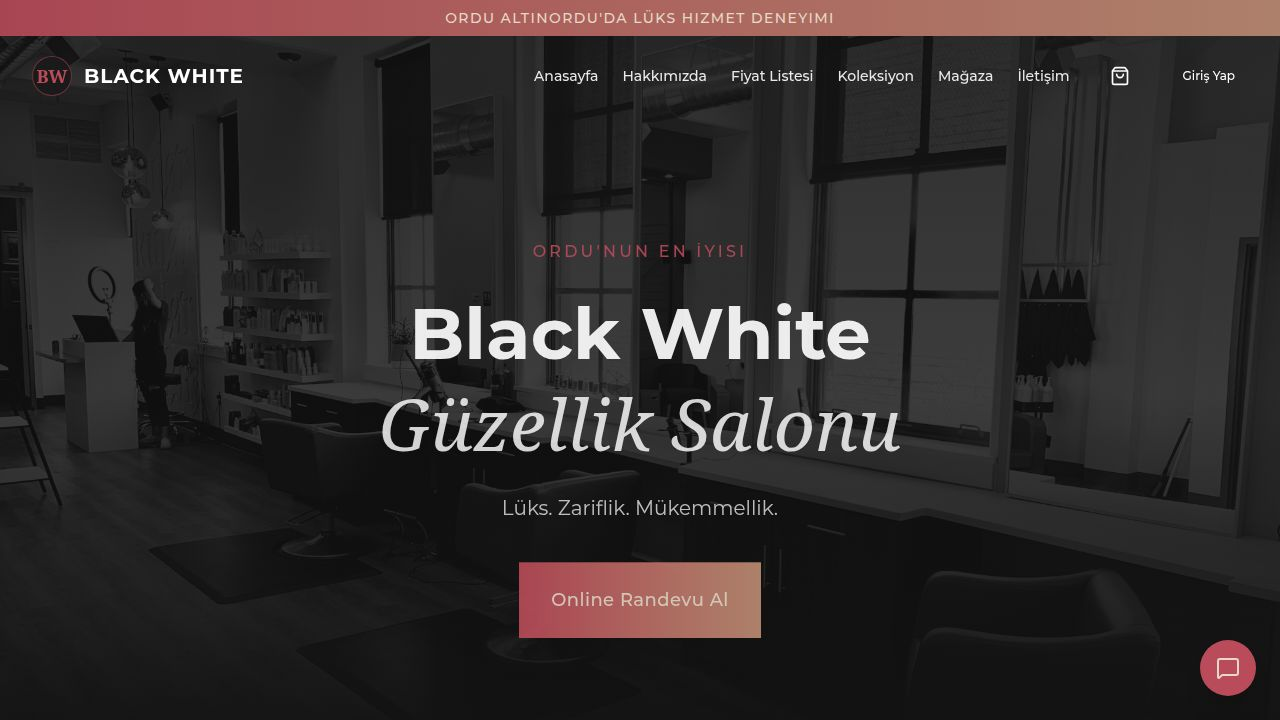
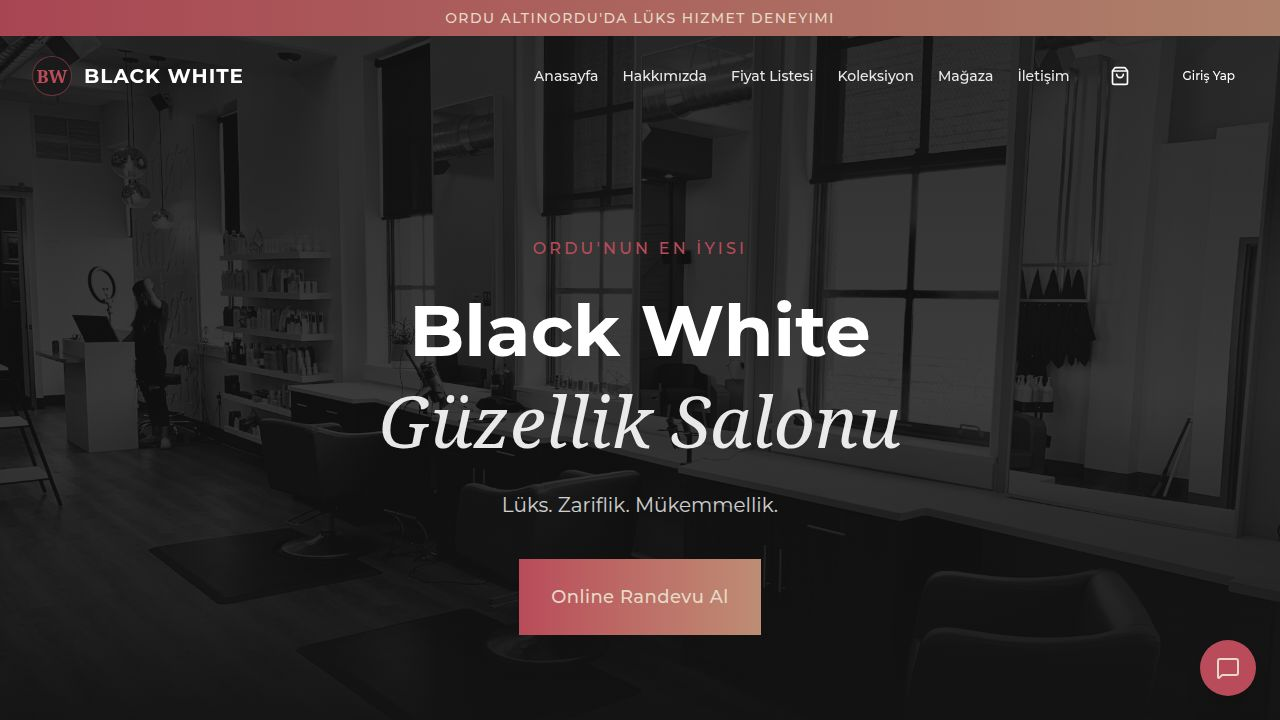
Fix crash when viewing gallery and ensure all data arrays are valid
Wrap gallery content with an ErrorBoundary component to prevent crashes and add null safety checks for gallery items, store products, and staff members in the store.

Replit-Commit-Author: Agent
Replit-Commit-Session-Id: a191b6bc-c11d-46f6-96be-dda547ddf787
Replit-Commit-Checkpoint-Type: full_checkpoint
Replit-Commit-Event-Id: 102fa211-3f3b-48c2-84a8-3e5fed6d204b
Replit-Commit-Screenshot-Url: https://storage.googleapis.com/screenshot-production-us-central1/f1316d36-864f-4967-b143-5408b5d85b4d/a191b6bc-c11d-46f6-96be-dda547ddf787/H6qPo88
Replit-Helium-Checkpoint-Created: true

diff --git a/artifacts/bw-salon/src/components/AdminContent.tsx b/artifacts/bw-salon/src/components/AdminContent.tsx
@@ -1,4 +1,5 @@
-import { useState, useRef, useEffect } from "react";
+import { useState, useRef, useEffect, Component } from "react";
+import type { ReactNode } from "react";
 import { useStore } from "@/lib/store";
 import type { StaffMember, ContactInfo, PriceList, StaffRole } from "@/lib/store";
 import { Tabs, TabsContent, TabsList, TabsTrigger } from "@/components/ui/tabs";
@@ -9,6 +10,30 @@ import { Select, SelectContent, SelectItem, SelectTrigger, SelectValue } from "@
 import { Avatar, AvatarFallback, AvatarImage } from "@/components/ui/avatar";
 import { useToast } from "@/hooks/use-toast";
 import { Plus, Trash2, Edit2, Upload, Link as LinkIcon, Star, MapPin, Phone, Instagram, MessageCircle, Clock, Facebook, KeyRound, UserPlus, ShieldCheck } from "lucide-react";
+
+class ErrorBoundary extends Component<{ children: ReactNode }, { error: string | null }> {
+  constructor(props: { children: ReactNode }) {
+    super(props);
+    this.state = { error: null };
+  }
+  static getDerivedStateFromError(err: unknown) {
+    return { error: err instanceof Error ? err.message : "Bilinmeyen hata" };
+  }
+  render() {
+    if (this.state.error) {
+      return (
+        <div className="p-6 rounded-xl border border-destructive bg-destructive/10 text-destructive text-sm space-y-2">
+          <p className="font-semibold">Bir hata oluştu, sayfa yenileyin</p>
+          <p className="text-xs opacity-75">{this.state.error}</p>
+          <button className="text-xs underline" onClick={() => this.setState({ error: null })}>
+            Tekrar dene
+          </button>
+        </div>
+      );
+    }
+    return this.props.children;
+  }
+}
 
 function useImageInput(onResult: (dataUrl: string) => void) {
   const ref = useRef<HTMLInputElement>(null);
@@ -356,6 +381,7 @@ export function AdminContent() {
 
       {/* ── GALERİ ── */}
       <TabsContent value="gallery" className="space-y-6">
+      <ErrorBoundary>
         <div className="p-5 border border-border rounded-xl bg-background space-y-4">
           <h4 className="font-medium text-sm">Fotoğraf Ekle</h4>
           <div className="flex gap-3 items-start flex-wrap">
@@ -414,9 +440,9 @@ export function AdminContent() {
         </div>
 
         <div className="grid grid-cols-3 md:grid-cols-5 lg:grid-cols-6 gap-4">
-          {siteContent.galleryItems.filter(i => galleryFilter === "all" || i.category === galleryFilter).map(img => (
-            <div key={img.id} className="relative aspect-square rounded-md overflow-hidden group">
-              <img src={img.url} alt={img.label} className="w-full h-full object-cover" />
+          {(siteContent.galleryItems ?? []).filter(i => galleryFilter === "all" || i.category === galleryFilter).map(img => (
+            <div key={img.id ?? img.url} className="relative aspect-square rounded-md overflow-hidden group">
+              <img src={img.url} alt={img.label ?? ""} className="w-full h-full object-cover" loading="lazy" />
               <button
                 className="absolute top-2 right-2 w-8 h-8 bg-black/50 hover:bg-destructive text-white rounded-full flex items-center justify-center opacity-0 group-hover:opacity-100 transition-opacity"
                 onClick={() => deleteGalleryItem(img.id)}
@@ -425,7 +451,11 @@ export function AdminContent() {
               </button>
             </div>
           ))}
+          {(siteContent.galleryItems ?? []).length === 0 && (
+            <p className="col-span-full text-xs text-muted-foreground text-center py-8">Henüz fotoğraf eklenmemiş.</p>
+          )}
         </div>
+      </ErrorBoundary>
       </TabsContent>
 
       {/* ── PERSONEL ── */}

diff --git a/artifacts/bw-salon/src/lib/store.tsx b/artifacts/bw-salon/src/lib/store.tsx
@@ -400,11 +400,15 @@ export function StoreProvider({ children }: { children: ReactNode }) {
         ]);
 
         if (content) {
+          const c = content as SiteContent;
           setSiteContent({
             ...DEFAULT_SITE_CONTENT,
             ...content,
-            priceList: (content as SiteContent).priceList
-              ? { ...DEFAULT_PRICE_LIST, ...(content as SiteContent).priceList }
+            galleryItems: Array.isArray(c.galleryItems) ? c.galleryItems : DEFAULT_SITE_CONTENT.galleryItems,
+            storeProducts: Array.isArray(c.storeProducts) ? c.storeProducts : DEFAULT_SITE_CONTENT.storeProducts,
+            staffMembers: Array.isArray(c.staffMembers) ? c.staffMembers : DEFAULT_SITE_CONTENT.staffMembers,
+            priceList: c.priceList
+              ? { ...DEFAULT_PRICE_LIST, ...c.priceList }
               : DEFAULT_PRICE_LIST,
           });
         }